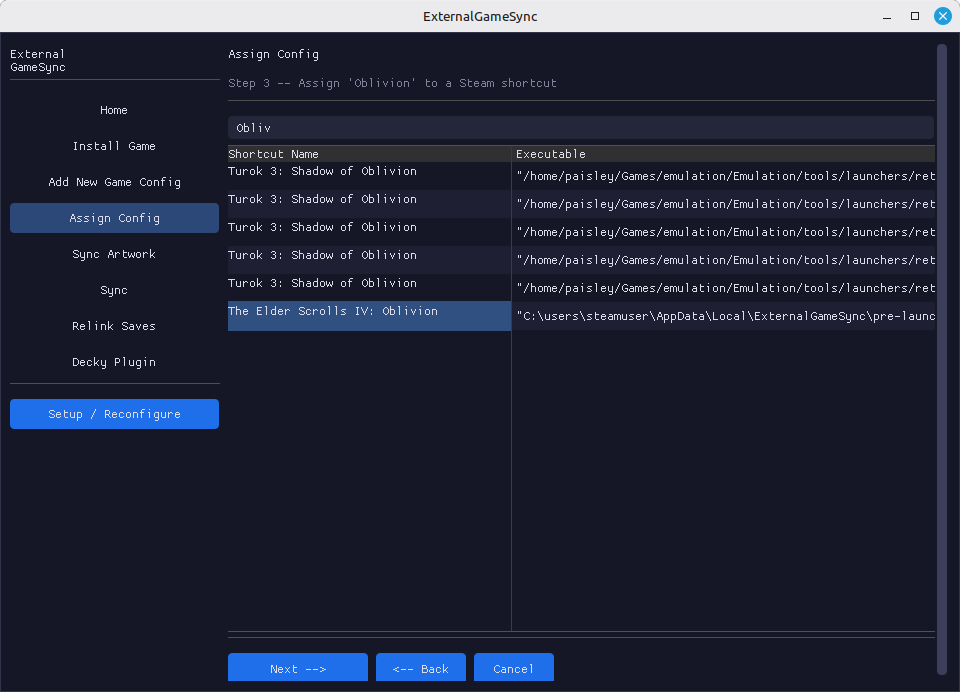
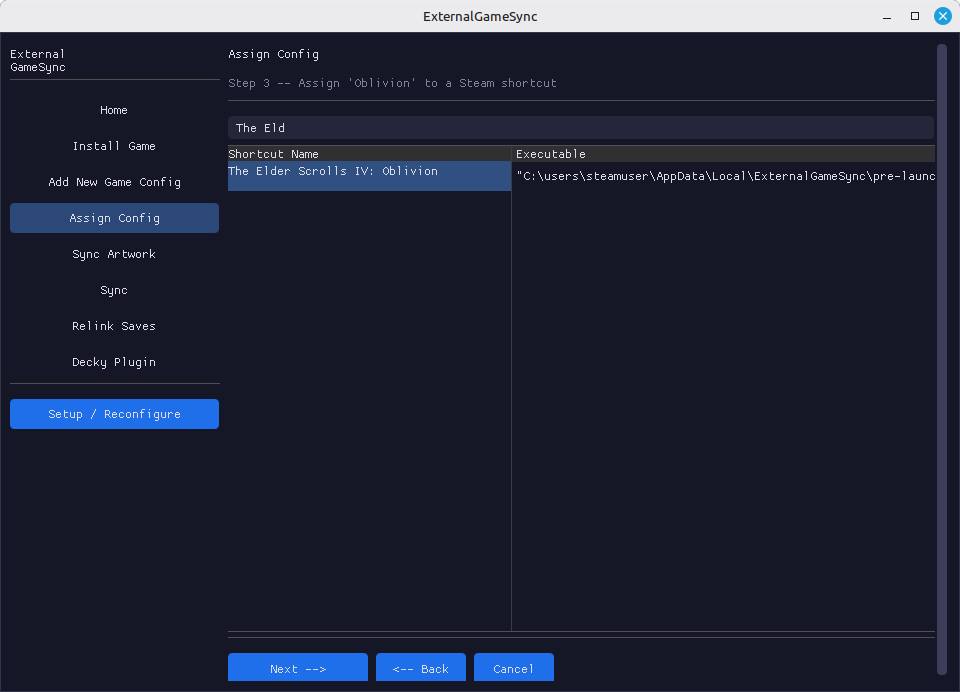
Documentation tweaks.

diff --git a/README.md b/README.md
@@ -196,9 +196,11 @@ Select the steam shortcut for the game you want to setup cloud syncing. This is 
 ![Select Steam shortcut](docs/examples/assign_3.png)
 
 **Step 4 — Confirm paths (Final Step)**
-The GUI resolves exe and save paths from the shared config.
+The GUI resolves exe and save paths from the shared config. You can still find them manually if the auto lookup isn't having any success.
 - *Non-Steam shortcut*: tries to auto-detect the Proton prefix by scanning recently modified prefixes for the game's exe. On Linux, only the prefix App ID is stored in the local config — paths are re-derived from the shared config at runtime. On Windows, absolute paths are stored locally because they vary by username and install location.
 - *Native Steam game on Linux*: the save path is resolved automatically from the App ID; no exe path is needed (Steam provides it at launch).
+
+![Select Steam shortcut](docs/examples/assign_4.png)
 
 Clicking **Assign** will:
 - Register this machine in the local config and push the updated `games.json` (if any changes were made).